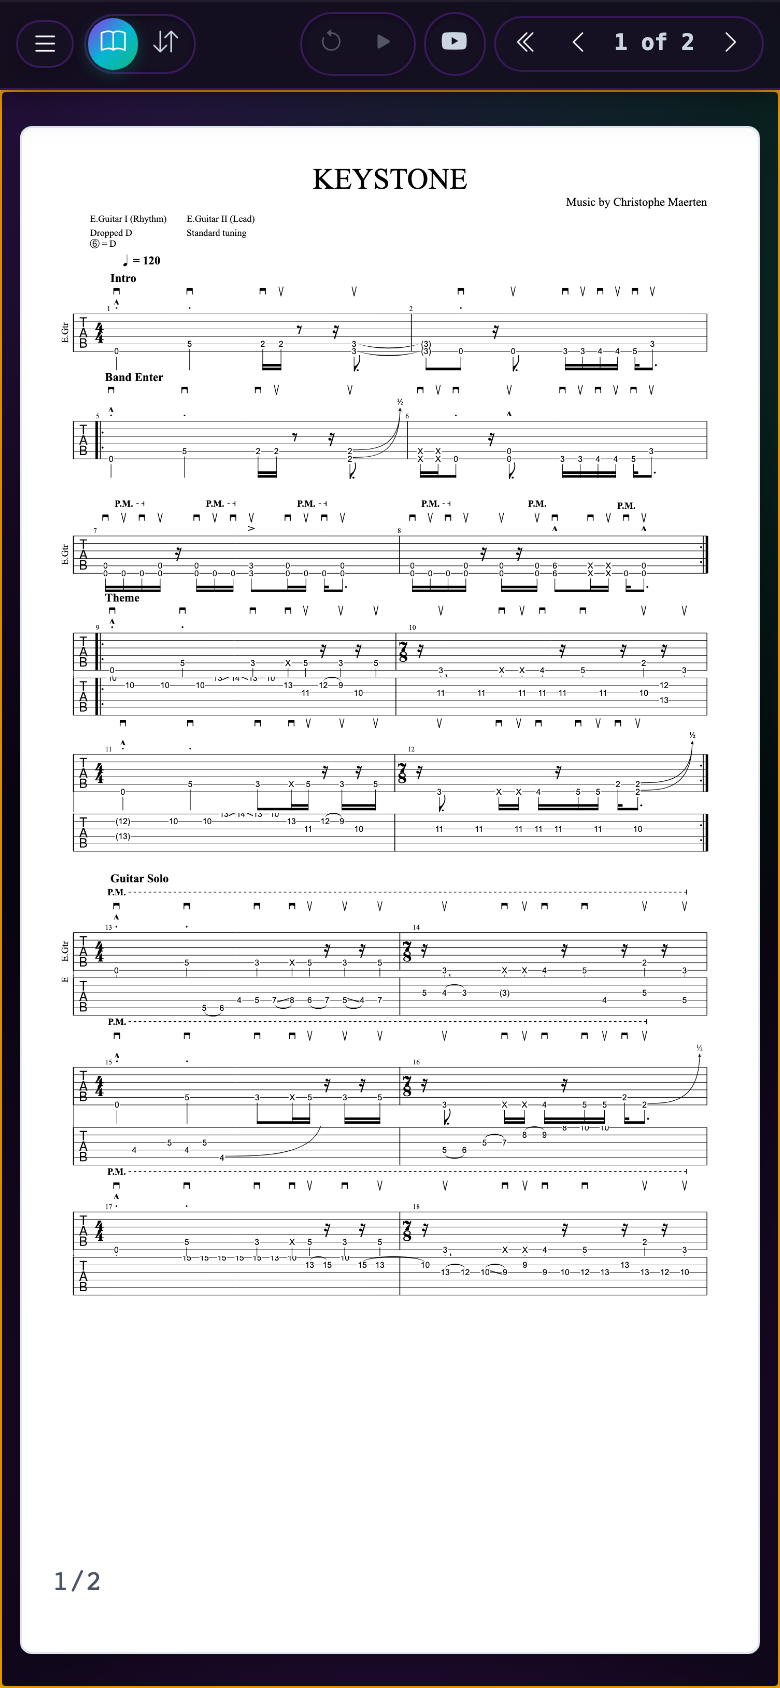
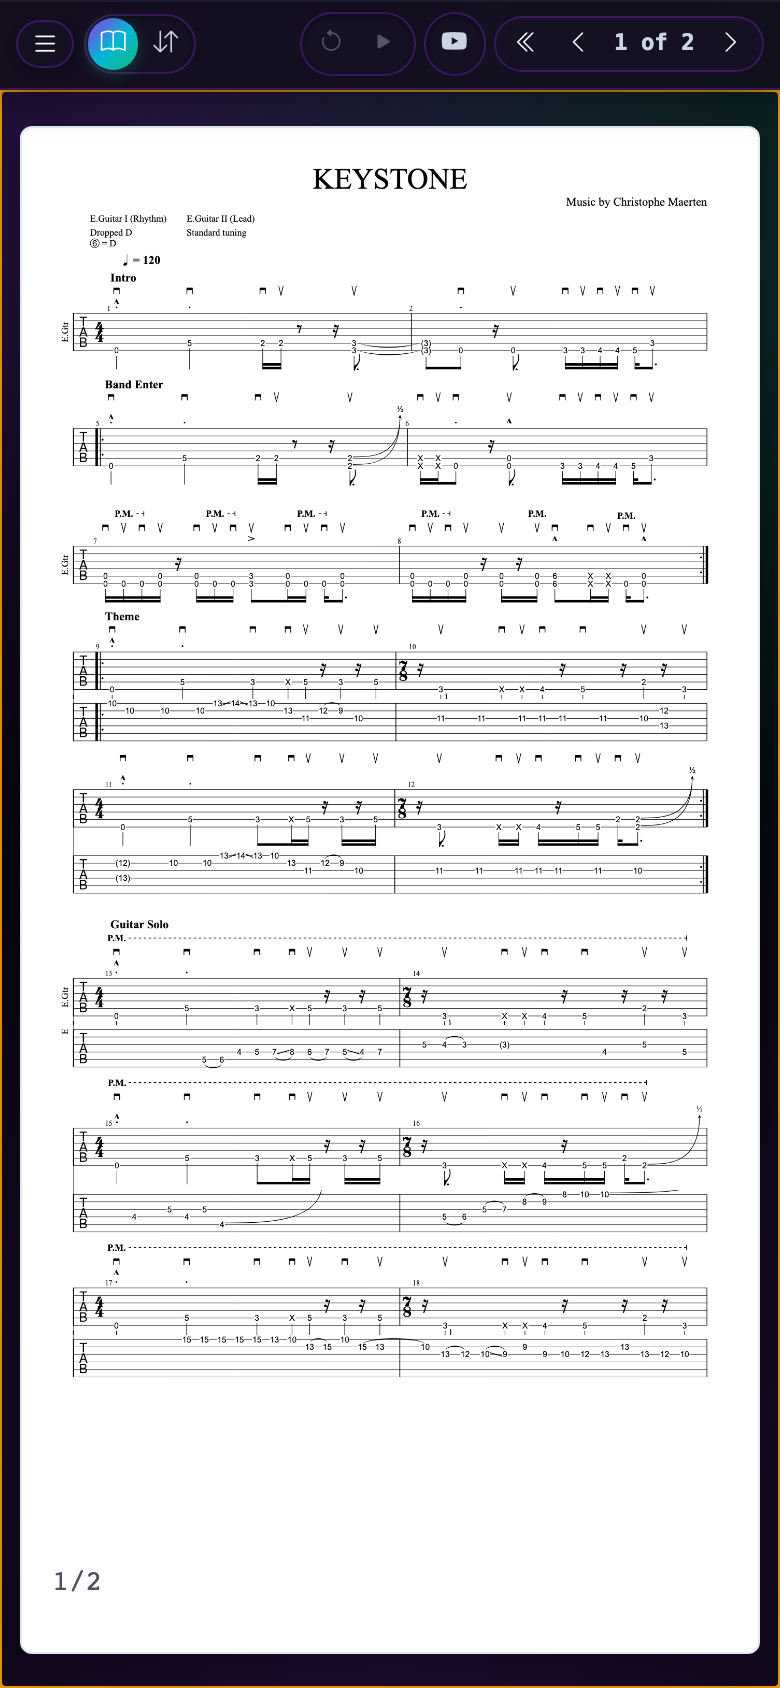
Fix stave spacing consistency and bar 11 label visibility in condensed PDF mode

Changed region(s): [[0.0923, 0.1848, 0.9231, 0.8318]]

diff --git a/app/pdfProcessor/marginDetector.js b/app/pdfProcessor/marginDetector.js
@@ -1,3 +1,37 @@
+function findStaffBottomContent(ctx, canvasWidth, canvasHeight, startY, maxScanY, blankRowThreshold = 8) {
+  if (!ctx || startY >= maxScanY) return startY;
+  const scanHeight = maxScanY - startY + 1;
+  const imgData = ctx.getImageData(0, startY, canvasWidth, scanHeight);
+  const data = imgData.data;
+
+  let lastContentY = startY;
+  let consecutiveBlank = 0;
+
+  for (let y = 0; y < scanHeight; y++) {
+    let rowHasContent = false;
+    for (let x = Math.floor(canvasWidth * 0.05); x < Math.floor(canvasWidth * 0.95); x++) {
+      const idx = (y * canvasWidth + x) * 4;
+      const r = data[idx], g = data[idx + 1], b = data[idx + 2], a = data[idx + 3];
+      if (a > 0 && (r < 220 || g < 220 || b < 220)) {
+        rowHasContent = true;
+        break;
+      }
+    }
+
+    if (rowHasContent) {
+      lastContentY = startY + y;
+      consecutiveBlank = 0;
+    } else {
+      consecutiveBlank++;
+      if (consecutiveBlank >= blankRowThreshold) {
+        break;
+      }
+    }
+  }
+
+  return lastContentY;
+}
+
 export function detectMargins(ctx, staffGroups, stavesByGroup, groupVerticalRuns = [], CONFIG, debugMode) {
   const keptMargins = [];
   const betweenGroupSections = [];
@@ -32,11 +66,12 @@ export function detectMargins(ctx, staffGroups, stavesByGroup, groupVerticalRuns
     // Reduce sectionEnd by minimum top margin
     sectionEnd = Math.max(sectionStart, sectionEnd - CONFIG.MIN_TOP_MARGIN_ABOVE_GROUP);
 
-    // --- Trim leading whitespace at top of teal section ---
+    // --- Trim whitespace of between-group section ---
     if (ctx && sectionEnd > sectionStart) {
       const imageData = ctx.getImageData(0, sectionStart, canvasWidth, sectionEnd - sectionStart);
       const data = imageData.data;
-      let firstContentRow = 0;
+      let firstContentRow = -1;
+      let lastContentRow = -1;
 
       for (let y = 0; y < imageData.height; y++) {
         let rowHasContent = false;
@@ -49,12 +84,28 @@ export function detectMargins(ctx, staffGroups, stavesByGroup, groupVerticalRuns
           }
         }
         if (rowHasContent) {
-          firstContentRow = y;
-          break;
+          if (firstContentRow === -1) firstContentRow = y;
+          lastContentRow = y;
         }
       }
 
-      sectionStart += firstContentRow;
+      if (gIndex === 0) {
+        if (firstContentRow !== -1) {
+          sectionStart += firstContentRow;
+        }
+      } else {
+        if (firstContentRow !== -1) {
+          const padTop = CONFIG.BETWEEN_GROUP_PADDING_TOP ?? 10;
+          const padBottom = CONFIG.BETWEEN_GROUP_PADDING_BOTTOM ?? 8;
+          const newStart = Math.max(sectionStart, sectionStart + firstContentRow - padTop);
+          const newEnd = Math.min(sectionEnd, sectionStart + lastContentRow + padBottom);
+          sectionStart = newStart;
+          sectionEnd = newEnd;
+        } else {
+          const gap = CONFIG.INTER_SYSTEM_GAP ?? 16;
+          sectionStart = Math.max(sectionStart, sectionEnd - gap);
+        }
+      }
     }
 
     if (sectionEnd > sectionStart && (gIndex === 0 || groupHasNotesOrStems)) {
@@ -78,10 +129,27 @@ export function detectMargins(ctx, staffGroups, stavesByGroup, groupVerticalRuns
         marginTop = Math.max(0, s.start - CONFIG.MIN_TOP_MARGIN_ABOVE_GROUP);
       }
 
-      const marginBottom = Math.max(
+      const stemMaxY = s.candidateRuns.reduce((acc, r) => Math.max(acc, r.maxY), s.end);
+      const bottomScanLimit = si < staves.length - 1
+        ? staves[si + 1].start - 1
+        : (gIndex < staffGroups.length - 1 ? staffGroups[gIndex + 1].start - 1 : canvasHeight - 1);
+
+      const contentMaxY = findStaffBottomContent(
+        ctx,
+        canvasWidth,
+        canvasHeight,
+        s.end,
+        Math.min(bottomScanLimit, s.end + (CONFIG.EXTRA_BOTTOM_SCAN ?? 50)),
+        CONFIG.BLANK_ROW_THRESHOLD ?? 8
+      );
+
+      const detectedBottom = Math.max(
         s.end + CONFIG.CONTENT_TOLERANCE_ABOVE_STAFF,
-        s.candidateRuns.reduce((acc, r) => Math.max(acc, r.maxY), s.end)
-      ) + CONFIG.EXTRA_BOTTOM_PADDING;
+        stemMaxY,
+        contentMaxY
+      );
+
+      const marginBottom = detectedBottom + CONFIG.EXTRA_BOTTOM_PADDING;
 
       if (s.hasNotes && !debugMode?.checked) {
         keptMargins.push({ marginTop, marginBottom });

diff --git a/app/pdfProcessor/config.js b/app/pdfProcessor/config.js
@@ -10,21 +10,25 @@ const BASE_CONFIG = {
     RIGHT_IGNORE: 0.95,                // Fraction of canvas width to ignore on right
     MIN_STEM_HEIGHT_PX: 8,             // Minimum height of a vertical stem in pixels
     LUMINANCE_THRESHOLD: 200,          // Threshold for considering a pixel "dark"
-    EXTRA_BOTTOM_SCAN: 14,             // Extra pixels below staff to scan for stems
-    EXTRA_BOTTOM_PADDING: 2,           // Extra pixels added below staff in condensed canvas
+    EXTRA_BOTTOM_SCAN: 50,             // Extra pixels below staff to scan for stems and rhythm notation
+    EXTRA_BOTTOM_PADDING: 8,           // Extra pixels added below staff in condensed canvas
     MIN_DIGIT_WIDTH: 4,                // Minimum width of a detected digit
     MIN_DIGIT_HEIGHT: 7,               // Minimum height of a detected digit
     MAX_DIGIT_WIDTH: 20,               // Maximum width of a detected digit
     MAX_DIGIT_HEIGHT: 20,              // Maximum height of a detected digit
     MIN_STAFF_HEIGHT_PX: 25,           // Minimum vertical height to consider as a staff
-    CONTENT_TOLERANCE_ABOVE_STAFF: 4,  // Extra pixels above staff considered as content
+    CONTENT_TOLERANCE_ABOVE_STAFF: 6,  // Extra pixels above staff considered as content
     INBETWEEN_BOTTOM_TRIM: 2,          // Trim pixels between staff groups for condensed canvas
     USE_STEMS_FOR_DECISION: false,     // Whether stems are considered along with digits for "hasNotes"
     LEFT_GROUP_TOLERANCE: 0.2,         // Fraction of width used to detect staff group vertical lines
     FIND_STEMS_IF_NO_DIGITS: false,    // Skip stem detection if there are no digits
     STAFF_EDGE_DIGIT_TOLERANCE: 4,     // Number of pixels beyond staff edges to check for digits
     LEFT_LINE_OFFSET_PX: 1,            // How many pixels to offset the visible left-line to the right of the detected vertical run
-    MIN_TOP_MARGIN_ABOVE_GROUP: 2,     // Minimum margin above individual staff top
+    MIN_TOP_MARGIN_ABOVE_GROUP: 8,     // Minimum margin above individual staff top
+    BETWEEN_GROUP_PADDING_TOP: 10,     // Padding above text in between-group sections
+    BETWEEN_GROUP_PADDING_BOTTOM: 8,   // Padding below text in between-group sections
+    INTER_SYSTEM_GAP: 16,              // Gap between systems when no text is present
+    BLANK_ROW_THRESHOLD: 8,            // Number of consecutive blank rows to demarcate staff bottom content
 };
 
 // List of pixel-based properties that need to be scaled
@@ -41,7 +45,11 @@ const PIXEL_PROPERTIES = [
     'INBETWEEN_BOTTOM_TRIM',
     'STAFF_EDGE_DIGIT_TOLERANCE',
     'LEFT_LINE_OFFSET_PX',
-    'MIN_TOP_MARGIN_ABOVE_GROUP'
+    'MIN_TOP_MARGIN_ABOVE_GROUP',
+    'BETWEEN_GROUP_PADDING_TOP',
+    'BETWEEN_GROUP_PADDING_BOTTOM',
+    'INTER_SYSTEM_GAP',
+    'BLANK_ROW_THRESHOLD'
 ];
 
 // Function to create a scaled config
